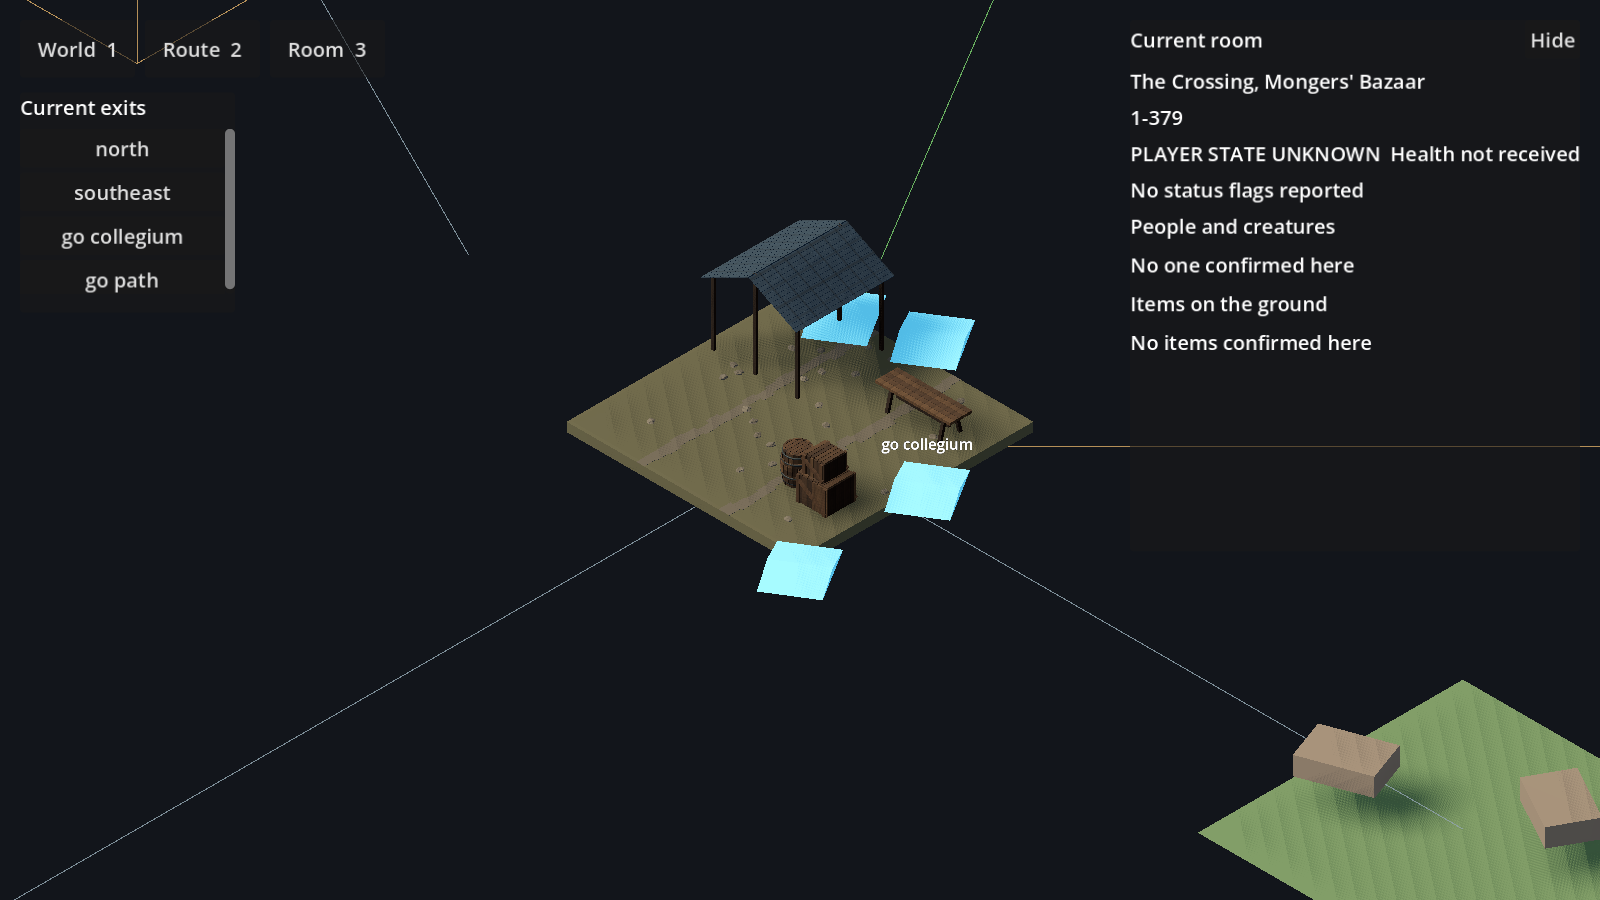
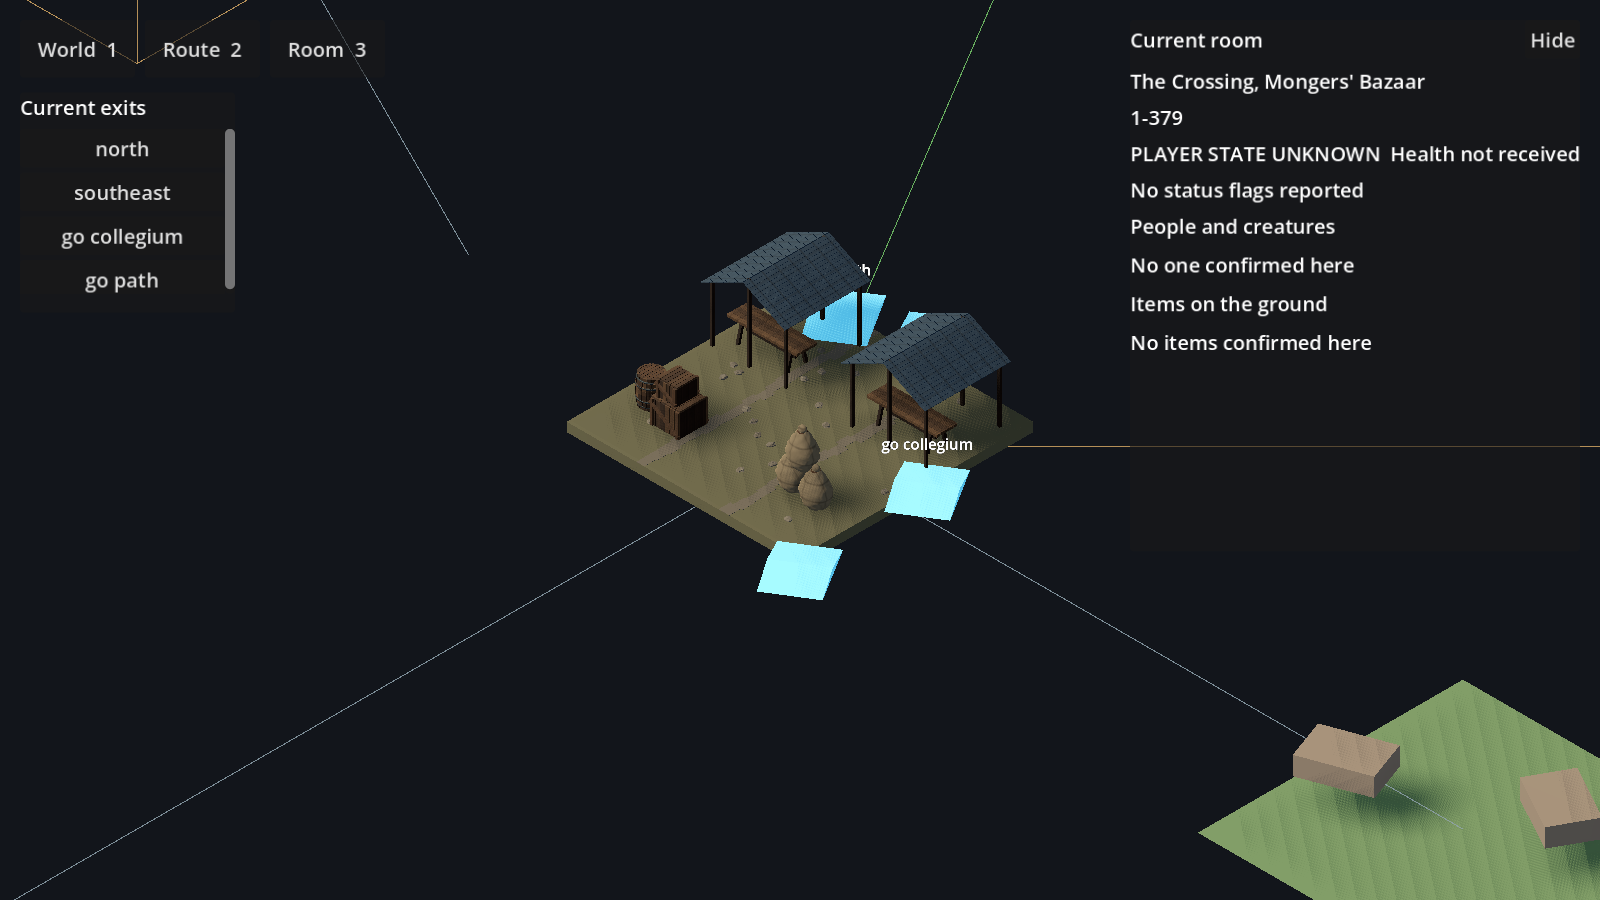
Furnish Crossing bazaar with paired bounded market stalls

Changed region(s): [[0.375, 0.2178, 0.6562, 0.5911]]

diff --git a/docs/verification/crossing-native-content.md b/docs/verification/crossing-native-content.md
@@ -1,5 +1,25 @@
 # Crossing native Town Green checkpoint — 6 September 2026
 
+## Bazaar furnishing continuation
+
+Mongers' Bazaar now has two canvas shelters with tables beneath them and two
+separate storage groups, replacing the single shelter and disconnected table.
+Seven pieces reuse five already-packaged models with no new binary asset payload
+or service credits. This is a partial interpretation of the existing hashed
+room description, not a change to room topology, shop inventory or population.
+
+The central 20 percent of room width is reserved as an unobstructed visual aisle.
+Tests measure full mesh bounds, including canopy overhangs, rather than trusting
+placement points. The first layout failed this check and was revised. Additional
+checks ensure both tables fit inside their shelter footprints. All 400 checks
+across 18 Godot scripts pass. The actual viewer capture was inspected: arrangement
+is coherent, but matching shelters are too pristine for the described tattered
+market, ground remains striped rather than muddy, and debug exit markers dominate.
+Those defects keep the recipe `partial-authored`; this is not final art approval
+or complete Crossing delivery. No live traversal or occlusion acceptance performed.
+
+![Two-stall bazaar arrangement](crossing-native-bazaar.png)
+
 ## Support-socket placement continuation
 
 Supply Stand supplies now sit on the trestle table's published `surface` socket,
